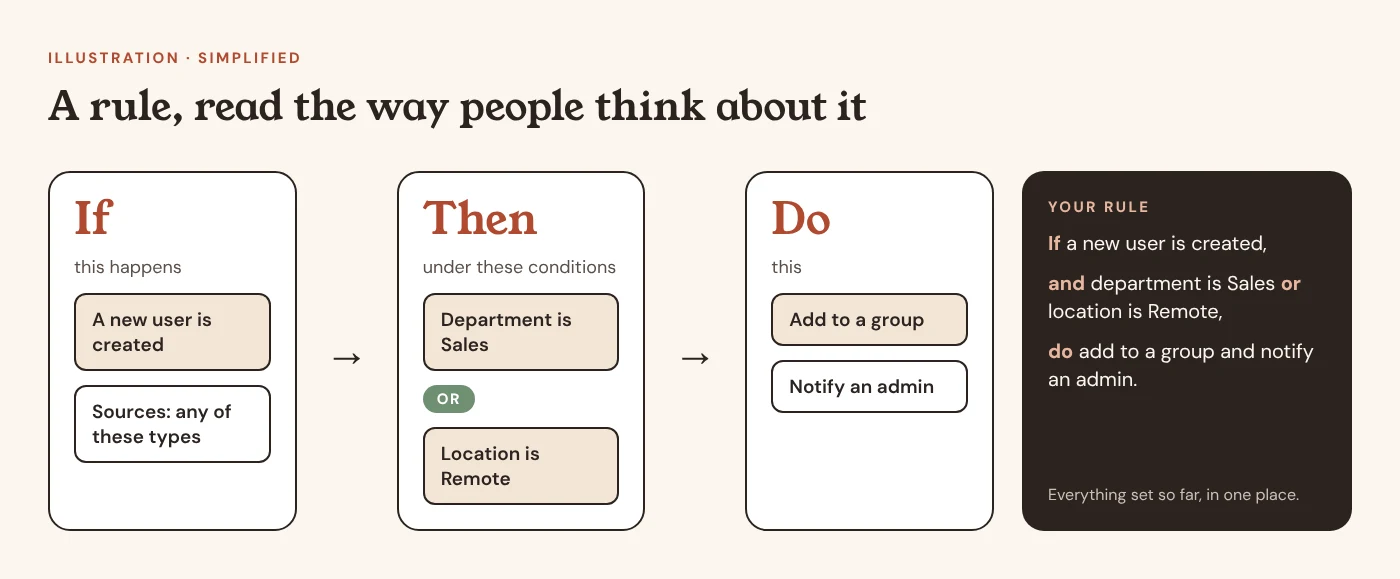
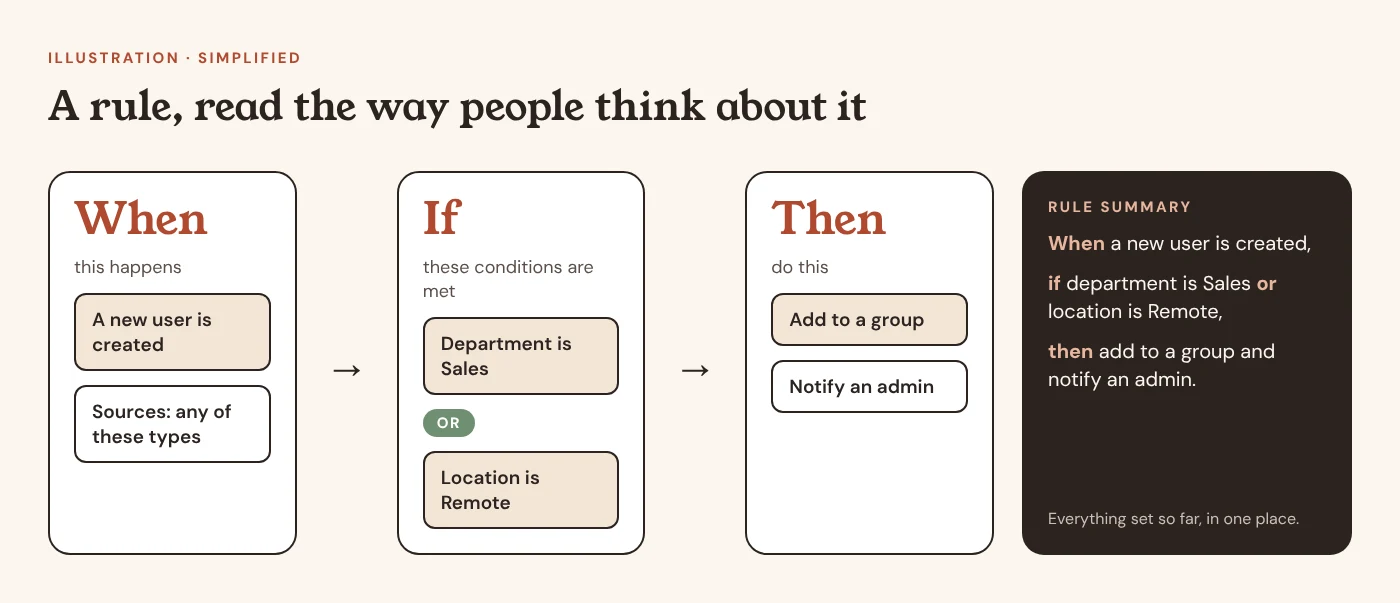
Admin console: correct rule builder to When/If/Then per the real layout
Claude-Session: https://claude.ai/code/session_01GdRQkU6BAW29soLe75xDZn

diff --git a/src/content/caseStudies.ts b/src/content/caseStudies.ts
@@ -509,13 +509,13 @@ export const adminConsole: CaseStudy = {
         problem:
           'Creating a rule involves trigger logic, a Sources panel that maps events to source types, and condition blocks with AND/OR patterns. The original stepper-style wizard made people move back and forth to check how their choices fit together. A second problem was conceptual: helping users tell apart two kinds of automation, Policies (scheduled, time-driven) and the Rules Engine (real-time, event-driven), on the Automation landing page.',
         approach:
-          'I redesigned it as a single “If → Then → Do” layout with a summary card that keeps everything set so far visible in one place. Steppers suit long, linear data entry; a rule is a set of interrelated pieces, and people need to see how they connect.',
+          'I redesigned it as a single page with three sections, When, If and Then, and a summary card that keeps everything set so far visible in one place. The page also warns when a similar rule already exists and previews the estimated impact before you save. [Confirm those two details.] Steppers suit long, linear data entry; a rule is a set of interrelated pieces, and people need to see how they connect.',
         outcome:
           'Rules read the way people think about them: if this happens, under these conditions, do this. Users see the whole rule without navigating between steps.',
         shot: {
-          label: 'Diagram: the If, Then, Do rule layout',
+          label: 'Diagram: the When, If, Then rule layout',
           src: '/gpanel-rule-builder.webp',
-          alt: 'A simplified illustration of a rule on one screen: If a new user is created, Then under the conditions department is Sales or location is Remote, Do add to a group and notify an admin, with a summary card on the right that reads the whole rule back.',
+          alt: 'A simplified illustration of a rule on one screen, in three parts: When a new user is created, If department is Sales or location is Remote, Then add to a group and notify an admin. A summary card on the right reads the whole rule back.',
           caption: 'A simplified illustration of the layout, with made-up example content. Not the real interface.',
           wide: true,
           width: 1400,
